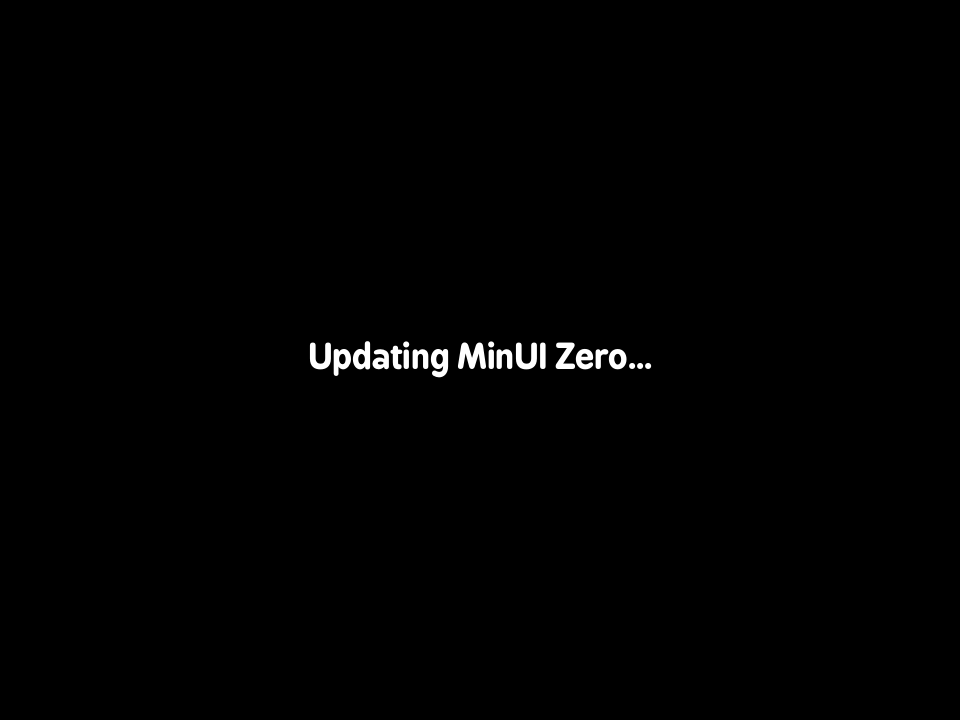
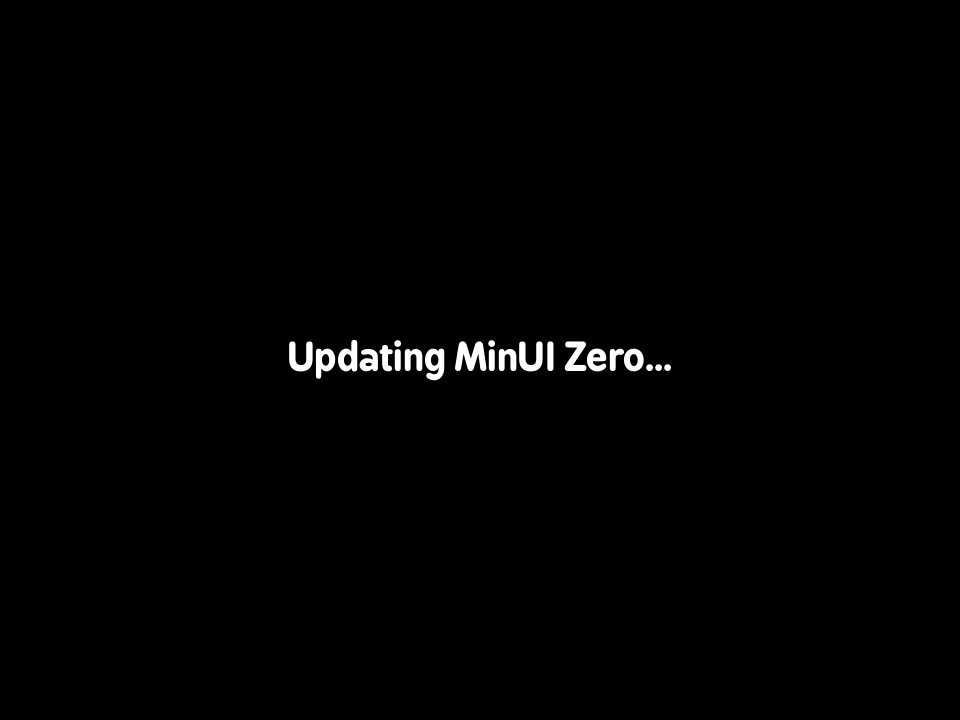
One more step up on the splash text

Changed region(s): [[0.2812, 0.4583, 0.6875, 0.55]]

diff --git a/tools/make-install-art.py b/tools/make-install-art.py
@@ -14,7 +14,7 @@ from PIL import Image, ImageDraw, ImageFont
 
 REPO = pathlib.Path(__file__).resolve().parent.parent
 FONT = REPO / "skeleton/SYSTEM/res/BPreplayBold-unhinted.otf"
-TEXT_H_FRAC = 1 / 28  # ~17 px cap height on 480 rows; the old art was ~1/11, 1/32 read tiny (Dan, 2026-09-22)
+TEXT_H_FRAC = 1 / 25  # ~19 px cap height on 480 rows; the old art was ~1/11, 1/32 read tiny (Dan, 2026-09-22)
 
 TARGETS = {
     "workspace/tg5040/install": (640, 480),
